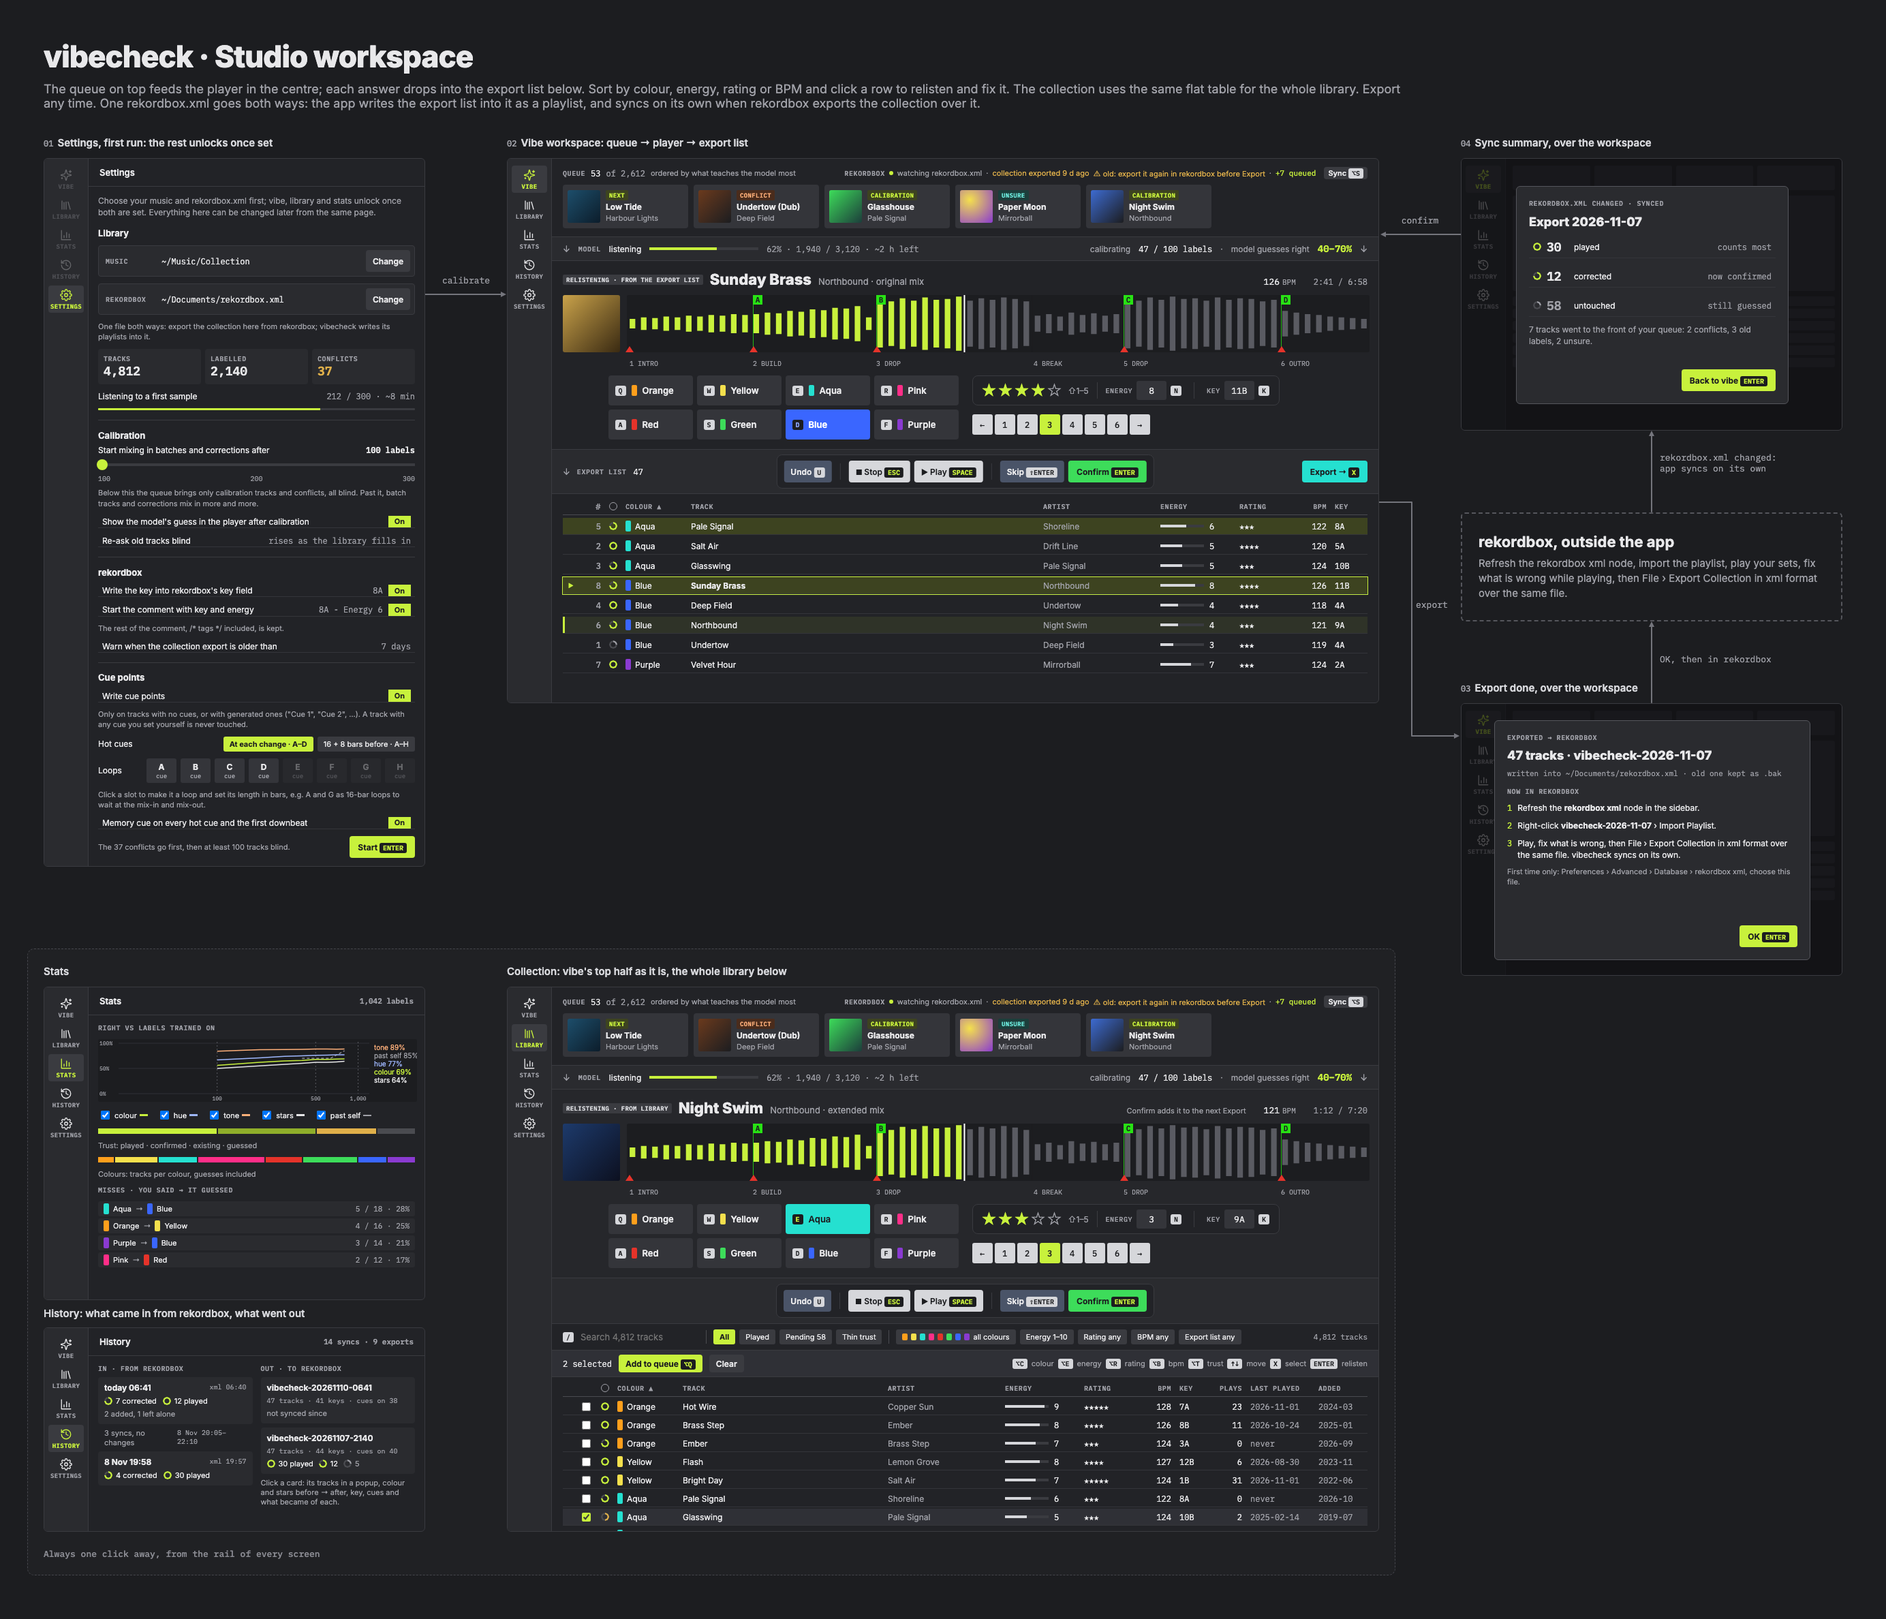
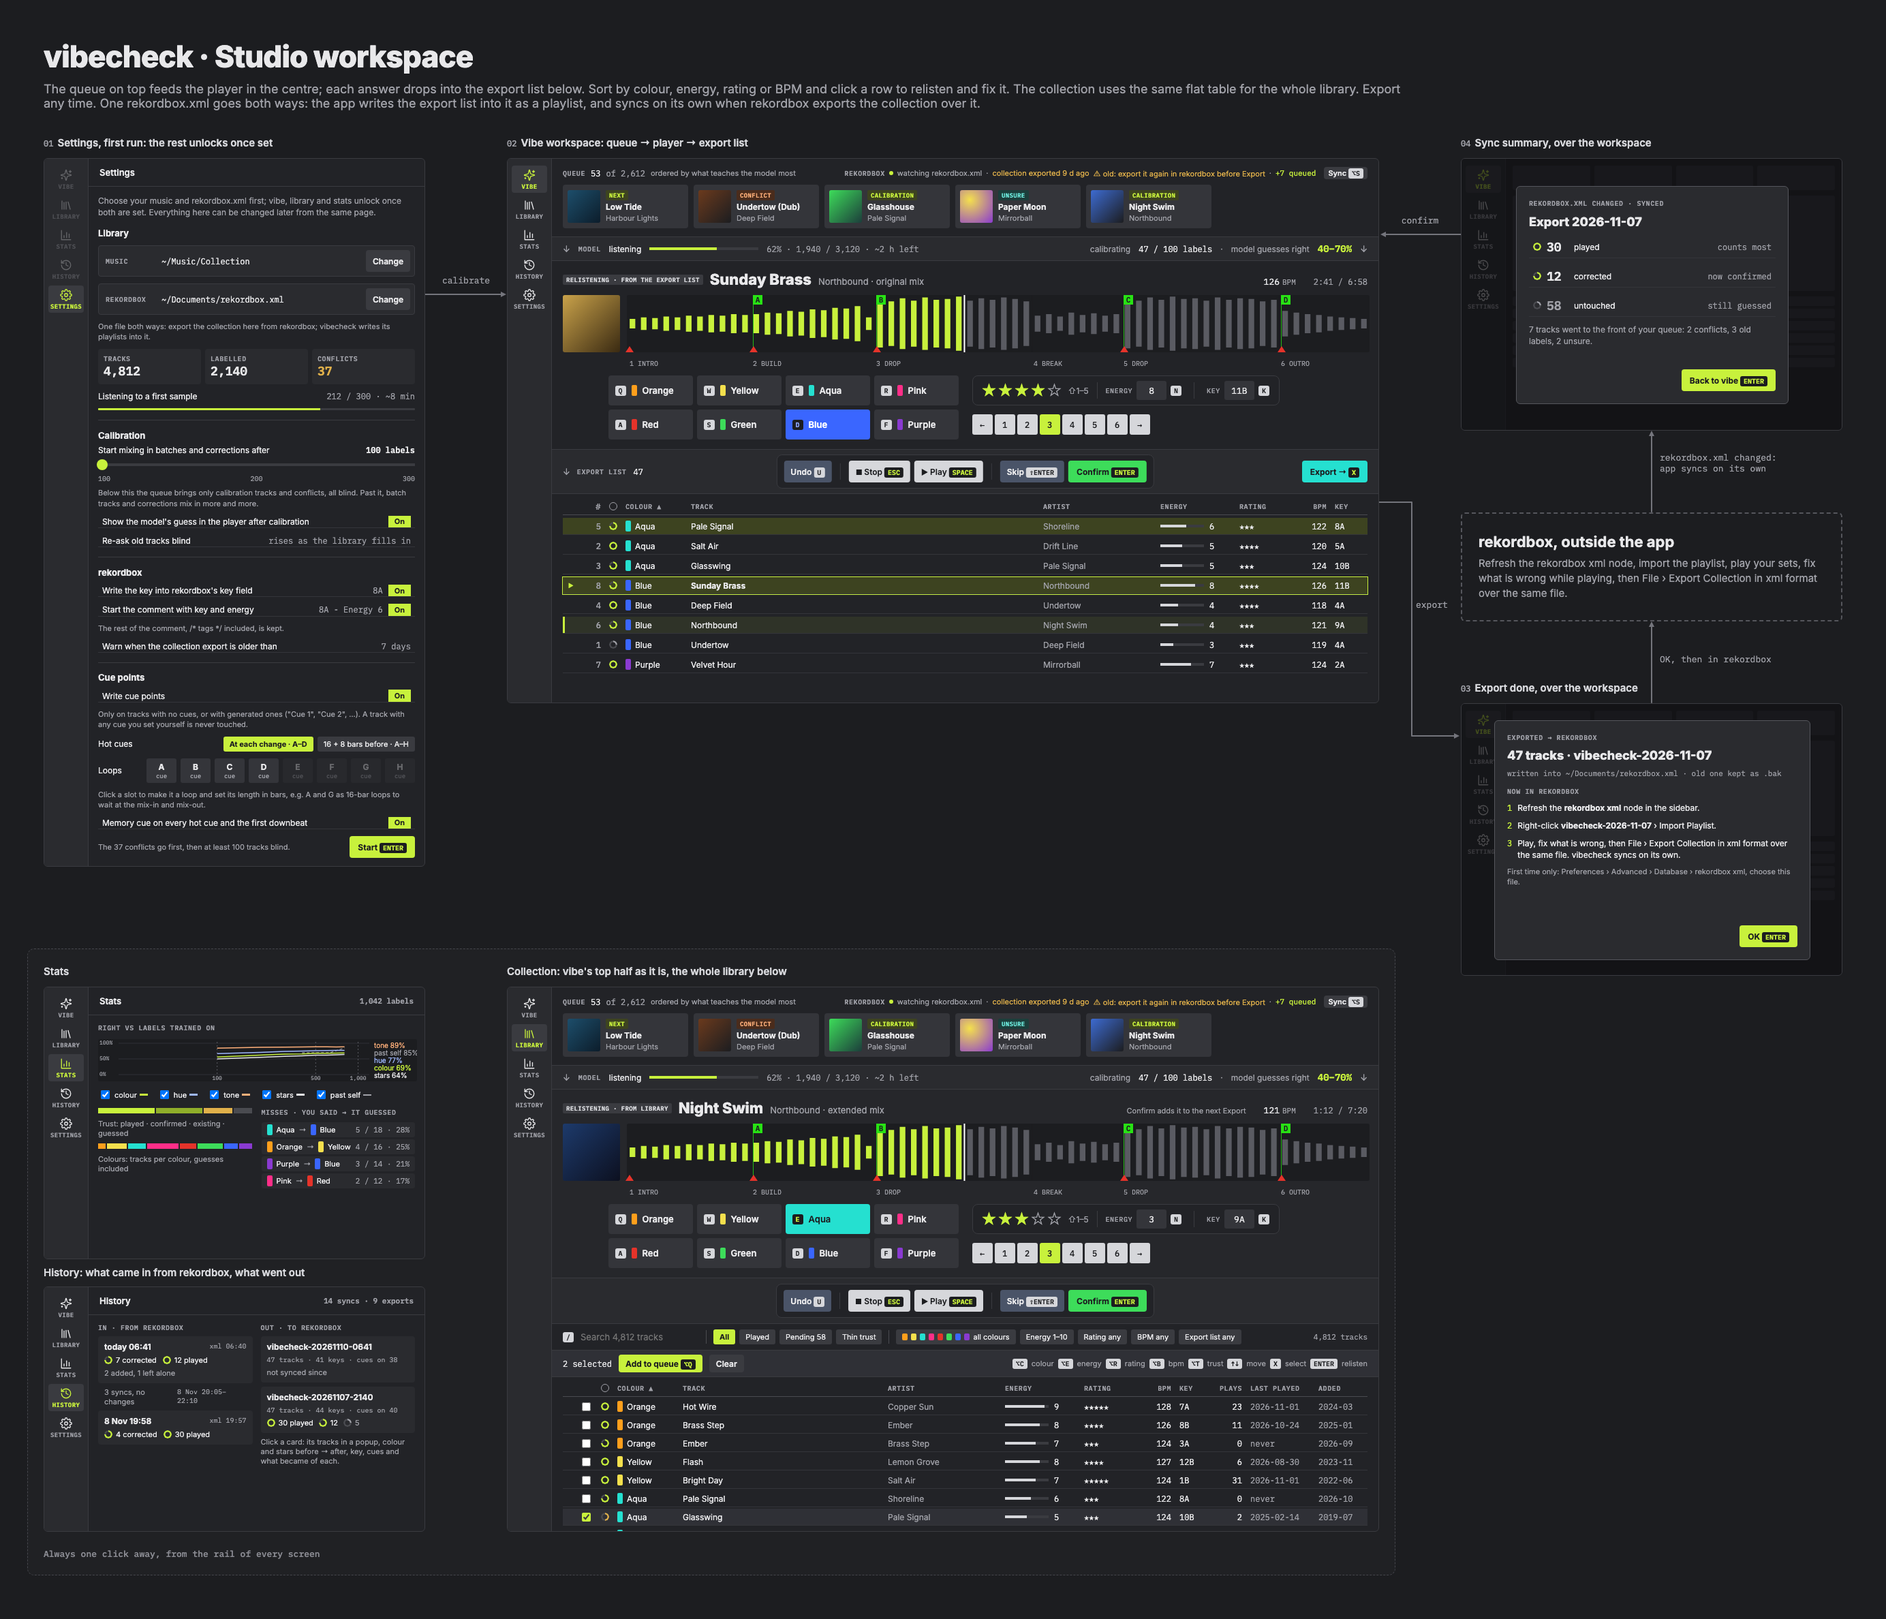
stats: trust/colours and misses side by side, top four misses, shorter chart
- model cache key m3: scores keep every mix-up, refit once

Changed region(s): [[0.0311, 0.6229, 0.2175, 0.9343]]

diff --git a/docs/ui/workspace.html b/docs/ui/workspace.html
@@ -102,7 +102,7 @@ a{color:#c8f13c}a:hover{color:#e0ff7a}
 <div class="cap" style="left: 2144px; top: 1000px"><span>03</span>Export done, over the workspace</div>
 <div class="cap" style="left: 2144px; top: 200px"><span>04</span>Sync summary, over the workspace</div>
 <div class="cap" style="left: 64px; top: 1416px">Stats</div>
-<div class="cap" style="left: 64px; top: 1918px">History: what came in from rekordbox, what went out</div>
+<div class="cap" style="left: 64px; top: 1858px">History: what came in from rekordbox, what went out</div>
 <div class="cap" style="left: 744px; top: 1416px">Collection: vibe's top half as it is, the whole library below</div>
 <div style="position: absolute; left: 64px; top: 2272px; font: 500 13px 'IBM Plex Mono', monospace; color: #8a8b92">Always one click away, from the rail of every screen</div>
 
@@ -254,18 +254,22 @@ a{color:#c8f13c}a:hover{color:#e0ff7a}
 </div>
 
 <!-- Stats -->
-<div class="scr" style="left: 64px; top: 1448px; height: 460px">
+<div class="scr" style="left: 64px; top: 1448px">
 <div class="rail"><span class="ri"><svg class="ic" viewBox="0 0 24 24" aria-hidden="true"><path d="M9.94 15.5a2 2 0 0 0-1.44-1.44l-6.13-1.58a.5.5 0 0 1 0-.96L8.5 9.94A2 2 0 0 0 9.94 8.5l1.58-6.13a.5.5 0 0 1 .96 0l1.58 6.13a2 2 0 0 0 1.44 1.44l6.13 1.58a.5.5 0 0 1 0 .96l-6.13 1.58a2 2 0 0 0-1.44 1.44l-1.58 6.13a.5.5 0 0 1-.96 0z"/><path d="M20 3v4"/><path d="M22 5h-4"/><path d="M4 17v2"/><path d="M5 18H3"/></svg>vibe</span><span class="ri"><svg class="ic" viewBox="0 0 24 24" aria-hidden="true"><path d="M4 4v16"/><path d="M8 7v13"/><path d="M12 6v14"/><path d="m16 6 4 14"/></svg>library</span><span class="ri ron"><svg class="ic" viewBox="0 0 24 24" aria-hidden="true"><path d="M3 3v18h18"/><path d="M8 17v-4"/><path d="M13 17V7"/><path d="M18 17v-7"/></svg>stats</span><span class="ri"><svg class="ic" viewBox="0 0 24 24" aria-hidden="true"><path d="M3 12a9 9 0 1 0 9-9 9.75 9.75 0 0 0-6.74 2.74L3 8"/><path d="M3 3v5h5"/><path d="M12 7v5l4 2"/></svg>history</span><span class="ri"><svg class="ic" viewBox="0 0 24 24" aria-hidden="true"><circle cx="12" cy="12" r="3"/><path d="M19.4 15a1.65 1.65 0 0 0 .33 1.82l.06.06a2 2 0 1 1-2.83 2.83l-.06-.06a1.65 1.65 0 0 0-1.82-.33 1.65 1.65 0 0 0-1 1.51V21a2 2 0 1 1-4 0v-.09A1.65 1.65 0 0 0 9 19.4a1.65 1.65 0 0 0-1.82.33l-.06.06a2 2 0 1 1-2.83-2.83l.06-.06a1.65 1.65 0 0 0 .33-1.82 1.65 1.65 0 0 0-1.51-1H3a2 2 0 1 1 0-4h.09A1.65 1.65 0 0 0 4.6 9a1.65 1.65 0 0 0-.33-1.82l-.06-.06a2 2 0 1 1 2.83-2.83l.06.06a1.65 1.65 0 0 0 1.82.33H9a1.65 1.65 0 0 0 1-1.51V3a2 2 0 1 1 4 0v.09a1.65 1.65 0 0 0 1 1.51 1.65 1.65 0 0 0 1.82-.33l.06-.06a2 2 0 1 1 2.83 2.83l-.06.06a1.65 1.65 0 0 0-.33 1.82V9a1.65 1.65 0 0 0 1.51 1H21a2 2 0 1 1 0 4h-.09a1.65 1.65 0 0 0-1.51 1z"/></svg>settings</span></div>
 <div class="main">
 <div class="head">Stats<span class="mono" style="margin-left: auto; font-size: 11px; color: #a0a1a8">1,042 labels</span></div>
 <div class="body" style="gap: 10px">
 <div class="lbl">Right vs labels trained on</div>
-<svg width="468" height="92" viewBox="0 0 468 92" role="img" aria-label="Right vs labels trained on, 0 to 100%, labels on a log scale: tone levels off near 89%, hue climbs to 77%, colour to 69%, stars to 64%; a dashed line for how often a relabelled track kept its colour, 70% then 85% now" style="display: block; flex: none; background: #1c1d20; border-radius: 3px"><path d="M30 80.0H398" stroke="#2f3036"/><text x="2" y="83.0" font-size="8" fill="#a0a1a8" font-family="IBM Plex Mono">0%</text><path d="M30 43.0H398" stroke="#2f3036"/><text x="2" y="46.0" font-size="8" fill="#a0a1a8" font-family="IBM Plex Mono">50%</text><path d="M30 6.0H398" stroke="#2f3036"/><text x="2" y="9.0" font-size="8" fill="#a0a1a8" font-family="IBM Plex Mono">100%</text><path d="M174.7 4V80" stroke="#5a5b62" stroke-dasharray="2 3"/><text x="174.7" y="90" font-size="8" fill="#a0a1a8" text-anchor="middle" font-family="IBM Plex Mono">100</text><path d="M319.3 4V80" stroke="#5a5b62" stroke-dasharray="2 3"/><text x="319.3" y="90" font-size="8" fill="#a0a1a8" text-anchor="middle" font-family="IBM Plex Mono">500</text><path d="M381.6 4V80" stroke="#5a5b62" stroke-dasharray="2 3"/><text x="381.6" y="90" font-size="8" fill="#a0a1a8" text-anchor="middle" font-family="IBM Plex Mono">1,000</text><polyline points="299.3,28.2 340.7,28.2 361.6,17.1" fill="none" stroke="#a0a1a8" stroke-width="1.2" stroke-dasharray="4 3"/><text x="405" y="28" font-size="10" fill="#a0a1a8" font-family="Inter">past self 85%</text><polyline points="174.7,17.8 237.0,15.6 273.4,15.2 299.3,14.9 319.3,14.4 335.7,14.5 349.6,14.7 361.6,14.4" fill="none" stroke="#ffb07a" stroke-width="1.5"/><text x="405" y="16" font-size="10" fill="#ffb07a" font-family="Inter">tone 89%</text><polyline points="174.7,30.4 237.0,27.5 273.4,25.2 299.3,24.5 319.3,23.8 335.7,23.4 349.6,23.0 361.6,23.0" fill="none" stroke="#9fb8ff" stroke-width="1.5"/><text x="405" y="40" font-size="10" fill="#9fb8ff" font-family="Inter">hue 77%</text><polyline points="174.7,38.6 237.0,34.1 273.4,31.9 299.3,31.2 319.3,29.7 335.7,29.7 349.6,29.3 361.6,28.9" fill="none" stroke="#c8f13c" stroke-width="1.5"/><text x="405" y="52" font-size="10" fill="#c8f13c" font-family="Inter">colour 69%</text><polyline points="174.7,43.0 237.0,39.3 273.4,37.1 299.3,35.6 319.3,34.1 335.7,34.1 349.6,33.4 361.6,32.6" fill="none" stroke="#e8e8ea" stroke-width="1.5"/><text x="405" y="64" font-size="10" fill="#e8e8ea" font-family="Inter">stars 64%</text></svg>
+<svg width="468" height="62" viewBox="0 0 468 62" role="img" aria-label="Right vs labels trained on, 0 to 100%, labels on a log scale: tone levels off near 89%, hue climbs to 77%, colour to 69%, stars to 64%; a dashed line for how often a relabelled track kept its colour, 70% then 85% now" style="display: block; flex: none; background: #1c1d20; border-radius: 3px"><path d="M30 52.0H398" stroke="#2f3036"/><text x="2" y="53.9" font-size="8" fill="#a0a1a8" font-family="IBM Plex Mono">0%</text><path d="M30 29.0H398" stroke="#2f3036"/><text x="2" y="30.9" font-size="8" fill="#a0a1a8" font-family="IBM Plex Mono">50%</text><path d="M30 6.0H398" stroke="#2f3036"/><text x="2" y="7.9" font-size="8" fill="#a0a1a8" font-family="IBM Plex Mono">100%</text><path d="M174.7 4V52" stroke="#5a5b62" stroke-dasharray="2 3"/><text x="174.7" y="60.0" font-size="8" fill="#a0a1a8" text-anchor="middle" font-family="IBM Plex Mono">100</text><path d="M319.3 4V52" stroke="#5a5b62" stroke-dasharray="2 3"/><text x="319.3" y="60.0" font-size="8" fill="#a0a1a8" text-anchor="middle" font-family="IBM Plex Mono">500</text><path d="M381.6 4V52" stroke="#5a5b62" stroke-dasharray="2 3"/><text x="381.6" y="60.0" font-size="8" fill="#a0a1a8" text-anchor="middle" font-family="IBM Plex Mono">1,000</text><polyline points="299.3,19.8 340.7,19.8 361.6,12.9" fill="none" stroke="#a0a1a8" stroke-width="1.2" stroke-dasharray="4 3"/><text x="405" y="24" font-size="10" fill="#a0a1a8" font-family="Inter">past self 85%</text><polyline points="174.7,13.3 237.0,12.0 273.4,11.7 299.3,11.5 319.3,11.2 335.7,11.3 349.6,11.4 361.6,11.2" fill="none" stroke="#ffb07a" stroke-width="1.5"/><text x="405" y="13" font-size="10" fill="#ffb07a" font-family="Inter">tone 89%</text><polyline points="174.7,21.2 237.0,19.4 273.4,17.9 299.3,17.5 319.3,17.1 335.7,16.8 349.6,16.6 361.6,16.6" fill="none" stroke="#9fb8ff" stroke-width="1.5"/><text x="405" y="35" font-size="10" fill="#9fb8ff" font-family="Inter">hue 77%</text><polyline points="174.7,26.3 237.0,23.5 273.4,22.1 299.3,21.7 319.3,20.7 335.7,20.7 349.6,20.5 361.6,20.2" fill="none" stroke="#c8f13c" stroke-width="1.5"/><text x="405" y="46" font-size="10" fill="#c8f13c" font-family="Inter">colour 69%</text><polyline points="174.7,29.0 237.0,26.7 273.4,25.3 299.3,24.4 319.3,23.5 335.7,23.5 349.6,23.0 361.6,22.5" fill="none" stroke="#e8e8ea" stroke-width="1.5"/><text x="405" y="57" font-size="10" fill="#e8e8ea" font-family="Inter">stars 64%</text></svg>
 <div style="display: flex; gap: 14px; font-size: 11px; color: #e8e8ea"><label style="display: flex; align-items: center; gap: 4px"><input type="checkbox" checked aria-label="Show colour">colour<span style="width: 12px; height: 3px; background: #c8f13c"></span></label><label style="display: flex; align-items: center; gap: 4px"><input type="checkbox" checked aria-label="Show hue">hue<span style="width: 12px; height: 3px; background: #9fb8ff"></span></label><label style="display: flex; align-items: center; gap: 4px"><input type="checkbox" checked aria-label="Show tone">tone<span style="width: 12px; height: 3px; background: #ffb07a"></span></label><label style="display: flex; align-items: center; gap: 4px"><input type="checkbox" checked aria-label="Show stars">stars<span style="width: 12px; height: 3px; background: #e8e8ea"></span></label><label style="display: flex; align-items: center; gap: 4px"><input type="checkbox" checked aria-label="Show past self">past self<span style="width: 12px; height: 0; border-top: 2px dashed #a0a1a8"></span></label></div>
+<div style="display: flex; gap: 14px; flex: none">
+<div style="flex: 1; min-width: 0; display: flex; flex-direction: column; gap: 8px">
 <div style="display: flex; flex: none; height: 8px; gap: 2px"><div style="flex: 38; background: #c8f13c"></div><div style="flex: 31; background: #8fae2a"></div><div style="flex: 19; background: #e0b04a"></div><div style="flex: 12; background: #4a4b50"></div></div>
 <span style="font-size: 11px; color: #a0a1a8">Trust: played · confirmed · existing · guessed</span>
 <div style="display: flex; flex: none; height: 8px; gap: 2px"><div style="flex: 68; background: #ff9f1c"></div><div style="flex: 181; background: #f4e04d"></div><div style="flex: 164; background: #25e0d0"></div><div style="flex: 283; background: #ff2e88"></div><div style="flex: 155; background: #e5332a"></div><div style="flex: 230; background: #3ddc5a"></div><div style="flex: 121; background: #3a66ff"></div><div style="flex: 117; background: #8a3ad1"></div></div>
 <span style="font-size: 11px; color: #a0a1a8">Colours: tracks per colour, guesses included</span>
+</div>
+<div style="flex: 1; min-width: 0; display: flex; flex-direction: column; gap: 8px">
 <div class="lbl">Misses · you said → it guessed</div>
 <div style="display: flex; flex-direction: column; gap: 3px; font-size: 11px">
 <div style="display: flex; align-items: center; gap: 6px; background: #2a2b2f; padding: 3px 8px; border-radius: 3px"><span class="dot" style="background: #25e0d0"></span>Aqua<span style="color: #a0a1a8">→</span><span class="dot" style="background: #3a66ff"></span>Blue<span class="mono" style="margin-left: auto; color: #a0a1a8">5 / 18 · 28%</span></div>
@@ -276,9 +280,11 @@ a{color:#c8f13c}a:hover{color:#e0ff7a}
 </div>
 </div>
 </div>
+</div>
+</div>
 
 <!-- History -->
-<div class="scr" style="left: 64px; top: 1948px; height: 300px">
+<div class="scr" style="left: 64px; top: 1888px; height: 360px">
 <div class="rail"><span class="ri"><svg class="ic" viewBox="0 0 24 24" aria-hidden="true"><path d="M9.94 15.5a2 2 0 0 0-1.44-1.44l-6.13-1.58a.5.5 0 0 1 0-.96L8.5 9.94A2 2 0 0 0 9.94 8.5l1.58-6.13a.5.5 0 0 1 .96 0l1.58 6.13a2 2 0 0 0 1.44 1.44l6.13 1.58a.5.5 0 0 1 0 .96l-6.13 1.58a2 2 0 0 0-1.44 1.44l-1.58 6.13a.5.5 0 0 1-.96 0z"/><path d="M20 3v4"/><path d="M22 5h-4"/><path d="M4 17v2"/><path d="M5 18H3"/></svg>vibe</span><span class="ri"><svg class="ic" viewBox="0 0 24 24" aria-hidden="true"><path d="M4 4v16"/><path d="M8 7v13"/><path d="M12 6v14"/><path d="m16 6 4 14"/></svg>library</span><span class="ri"><svg class="ic" viewBox="0 0 24 24" aria-hidden="true"><path d="M3 3v18h18"/><path d="M8 17v-4"/><path d="M13 17V7"/><path d="M18 17v-7"/></svg>stats</span><span class="ri ron"><svg class="ic" viewBox="0 0 24 24" aria-hidden="true"><path d="M3 12a9 9 0 1 0 9-9 9.75 9.75 0 0 0-6.74 2.74L3 8"/><path d="M3 3v5h5"/><path d="M12 7v5l4 2"/></svg>history</span><span class="ri"><svg class="ic" viewBox="0 0 24 24" aria-hidden="true"><circle cx="12" cy="12" r="3"/><path d="M19.4 15a1.65 1.65 0 0 0 .33 1.82l.06.06a2 2 0 1 1-2.83 2.83l-.06-.06a1.65 1.65 0 0 0-1.82-.33 1.65 1.65 0 0 0-1 1.51V21a2 2 0 1 1-4 0v-.09A1.65 1.65 0 0 0 9 19.4a1.65 1.65 0 0 0-1.82.33l-.06.06a2 2 0 1 1-2.83-2.83l.06-.06a1.65 1.65 0 0 0 .33-1.82 1.65 1.65 0 0 0-1.51-1H3a2 2 0 1 1 0-4h.09A1.65 1.65 0 0 0 4.6 9a1.65 1.65 0 0 0-.33-1.82l-.06-.06a2 2 0 1 1 2.83-2.83l.06.06a1.65 1.65 0 0 0 1.82.33H9a1.65 1.65 0 0 0 1-1.51V3a2 2 0 1 1 4 0v.09a1.65 1.65 0 0 0 1 1.51 1.65 1.65 0 0 0 1.82-.33l.06-.06a2 2 0 1 1 2.83 2.83l-.06.06a1.65 1.65 0 0 0-.33 1.82V9a1.65 1.65 0 0 0 1.51 1H21a2 2 0 1 1 0 4h-.09a1.65 1.65 0 0 0-1.51 1z"/></svg>settings</span></div>
 <div class="main">
 <div class="head">History<span class="mono" style="margin-left: auto; font-size: 11px; color: #a0a1a8">14 syncs · 9 exports</span></div>

diff --git a/core/src/app.rs b/core/src/app.rs
@@ -425,8 +425,9 @@ fn model_key(root: &Path, cfg: &Config, l: &Labelled) -> Res<(String, String)> {
     // only your labels change it: the model's guesses don't count
     let last: i64 = con.query_row("SELECT COALESCE(MAX(id), 0) FROM labels WHERE source = 'user'", [], |r| r.get(0))?;
     let ax = axes(cfg);
+    // m3: the score keeps every mix-up, not the top three
     let kind = format!(
-        "m2|{}|{}|{}|{}|{}",
+        "m3|{}|{}|{}|{}|{}",
         root.display(),
         ax[0].misleading_cost,
         ax[2].misleading_cost,

diff --git a/docs/ui/decisions.md b/docs/ui/decisions.md
@@ -99,7 +99,8 @@ How the app maps onto the core:
   "goal 300" marks went with the old linear axis.
 - A thinner line per colour, in the label colours, with its own row of
   checkboxes (no note on how noisy they are: the user). They start **unticked** (the user: there to look at, too noisy to
-  show by default). Chart twice as tall (480 px) for up to twelve lines.
+  show by default). Chart 320 px tall: 480 px was more than it needed (the
+  user).
 - **Past self** on the chart (the user): a dashed grey line, ticked by default,
   for how often a track you labelled again kept its colour. Like the model
   lines it is a running total (the user): each point counts every relabel made
@@ -109,14 +110,18 @@ How the app maps onto the core:
   counts as a relabel, also with the colour in view, which inflates it.
 - No tiles above the chart (colour right, stars right, past self, labels):
   the chart has them all (the user). The label count sits in the header.
-- The chart comes first; the misses are last on the page, under Colours
-  (the user). "Mixed up most" with "Blue taken for Green 6%" left unclear who
+- The chart comes first; the misses sit beside Trust and Colours (the
+  user). "Mixed up most" with "Blue taken for Green 6%" left unclear who
   took what, and 6% was of all held-back labels. Now titled "Misses · you
   said → it guessed", one per row so the rank reads top down: "■ Blue →
   ■ Green" on the left, "5 / 18 · 28%" on the right (missed as that colour, of
   your held-back labels of the first, and the share). The four worst by that
-  share lead (the user); on few labels a share can be chance.
-- **Colours** at the bottom, under Trust (the user): the same split bar, one
+  share lead (the user); on few labels a share can be chance. The score
+  keeps every mix-up; the model cache key went to m3 so old scores, with
+  three, are refit once.
+- Below the chart the page splits in two halves (the user): Trust and
+  Colours on the left, the misses on the right; legends wrap.
+- **Colours** under Trust (the user): the same split bar, one
   part per colour in the label colours, from all tracks with a colour (guesses
   included), with counts below and "no colour N".
 
